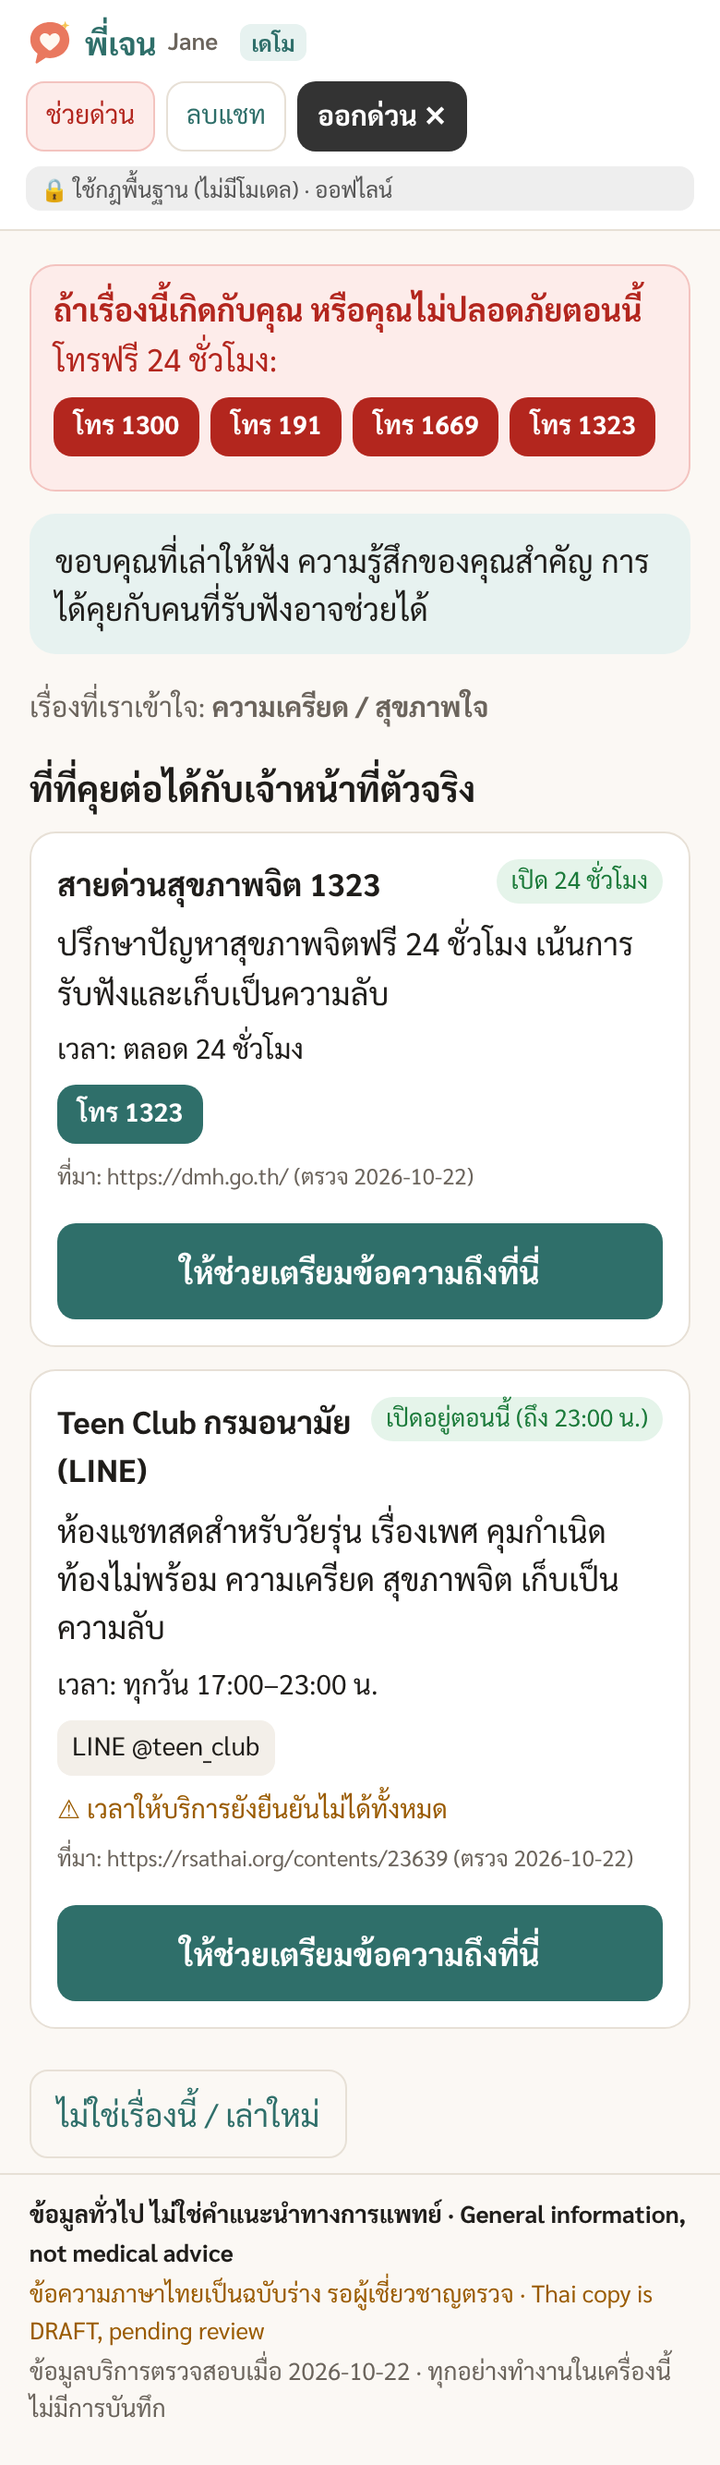
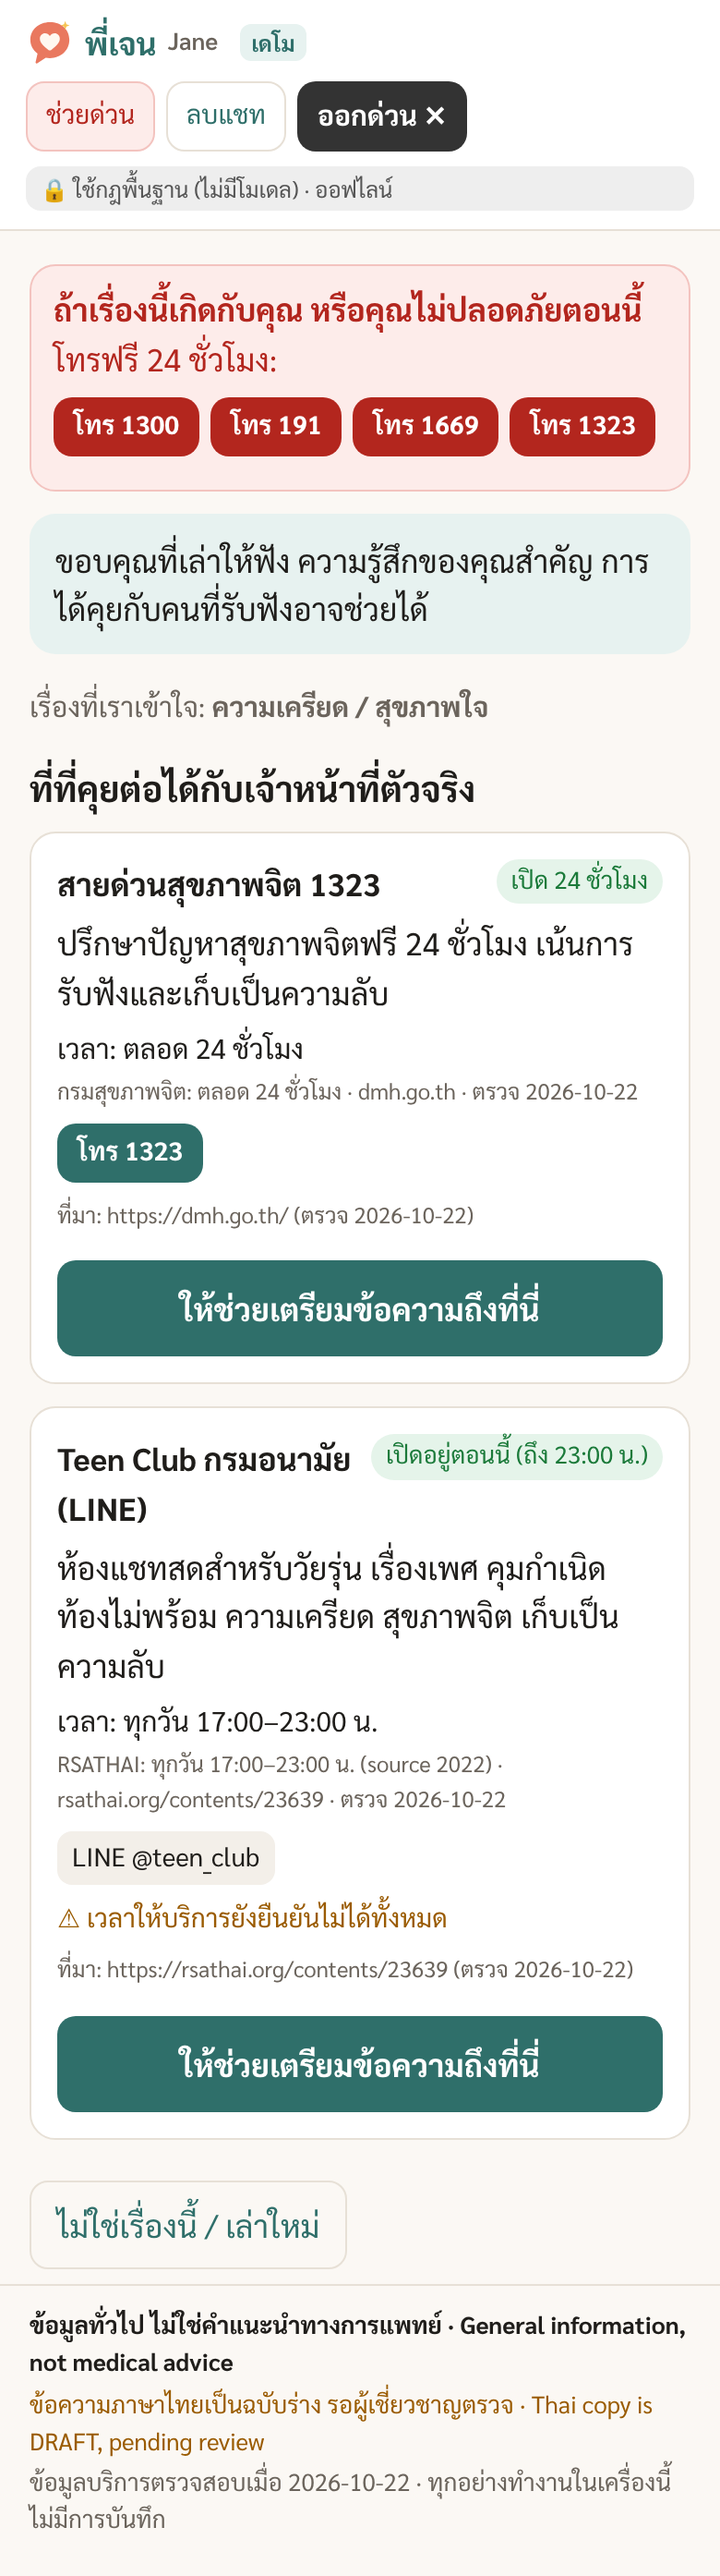
Hours with sources per service: narrower window for open-now when sources disagree (1663 → 10–20), all sources cited on the card, Teen Club 'source 2022'; eval harness for WebGPU + serve --dist

Changed region(s): [[0.0308, 0.0, 0.9538, 0.9955]]

diff --git a/tests/unit/hours-sources.test.ts b/tests/unit/hours-sources.test.ts
@@ -1,0 +1,66 @@
+import { describe, it, expect } from "vitest";
+import { narrowestHours, hoursCitation, openStatus } from "../../src/core/openNow";
+import { SERVICES } from "../../src/core/referral";
+import type { Hours } from "../../src/core/types";
+
+const d = (open: string, close: string): Hours => ({ type: "daily", open, close });
+const svc = (id: string) => SERVICES.find((s) => s.id === id)!;
+const bkk = (hhmm: string) => new Date(`2026-10-22T${hhmm}:00+07:00`);
+
+describe("narrowest window when sources disagree", () => {
+  it("intersects same-day windows (latest open, earliest close)", () => {
+    expect(narrowestHours([d("09:00", "21:00"), d("10:00", "20:00")])).toEqual(d("10:00", "20:00"));
+    expect(narrowestHours([d("09:00", "20:00"), d("10:00", "21:00")])).toEqual(d("10:00", "20:00"));
+    expect(narrowestHours([d("08:00", "22:00"), d("09:30", "21:00"), d("10:00", "21:30")])).toEqual(d("10:00", "21:00"));
+  });
+  it("order of sources does not matter", () => {
+    expect(narrowestHours([d("10:00", "20:00"), d("09:00", "21:00")])).toEqual(narrowestHours([d("09:00", "21:00"), d("10:00", "20:00")]));
+  });
+  it("24h only wins when every source says 24h", () => {
+    expect(narrowestHours([{ type: "24h" }, { type: "24h" }])).toEqual({ type: "24h" });
+    expect(narrowestHours([{ type: "24h" }, d("08:00", "16:00")])).toEqual(d("08:00", "16:00"));
+  });
+  it("'varies' adds no window; all-varies stays varies", () => {
+    expect(narrowestHours([{ type: "varies" }])).toEqual({ type: "varies" });
+    expect(narrowestHours([{ type: "varies" }, d("08:00", "16:00")])).toEqual(d("08:00", "16:00"));
+  });
+  it("disjoint or midnight-crossing windows fall back to the shortest single window (never wider)", () => {
+    expect(narrowestHours([d("08:00", "10:00"), d("12:00", "18:00")])).toEqual(d("08:00", "10:00"));
+    expect(narrowestHours([d("20:00", "02:00"), d("18:00", "23:00")])).toEqual(d("18:00", "23:00"));
+  });
+  it("1663 open-now uses 10:00–20:00 (GCC) not 09:00–21:00 (RSATHAI)", () => {
+    expect(svc("hotline_1663").hours).toEqual(d("10:00", "20:00"));
+    expect(openStatus(svc("hotline_1663").hours, bkk("09:30")).state).toBe("closed");
+    expect(openStatus(svc("hotline_1663").hours, bkk("20:30")).state).toBe("closed");
+    expect(openStatus(svc("hotline_1663").hours, bkk("15:00")).state).toBe("open");
+  });
+});
+
+describe("hours citations on the card", () => {
+  it("1663 cites both sources and flags the conflict", () => {
+    const c = hoursCitation(svc("hotline_1663"));
+    expect(c.conflict).toBe(true);
+    expect(c.effective_th).toBe("ทุกวัน 10:00–20:00 น.");
+    expect(c.conflict_note_th).toContain("ช่วงเวลาที่แคบกว่า");
+    expect(c.lines).toHaveLength(2);
+    expect(c.lines[0]).toBe("RSATHAI: ทุกวัน 09:00–21:00 น. · rsathai.org/qrcode · ตรวจ 2026-10-22");
+    expect(c.lines[1]).toMatch(/^GCC Call Center ภาครัฐ: ทุกวัน 10:00–20:00 น\. \(source 2025\) · gcontact\.gcc\.go\.th\/index\.php · ตรวจ 2026-10-22$/);
+  });
+  it("Teen Club 17–23 is labelled 'source 2022'", () => {
+    const c = hoursCitation(svc("teen_club"));
+    expect(c.conflict).toBe(false);
+    expect(c.conflict_note_th).toBeNull();
+    expect(c.lines).toEqual(["RSATHAI: ทุกวัน 17:00–23:00 น. (source 2022) · rsathai.org/contents/23639 · ตรวจ 2026-10-22"]);
+  });
+  it("agreeing sources are not a conflict (1300: both 24h)", () => {
+    const c = hoursCitation(svc("hotline_1300"));
+    expect(c.conflict).toBe(false);
+    expect(c.lines).toHaveLength(2);
+  });
+  it("every service has at least one hours source with url and check date", () => {
+    for (const s of SERVICES) {
+      expect(s.hours_sources.length, s.id).toBeGreaterThan(0);
+      for (const x of s.hours_sources) { expect(x.url).toMatch(/^https:\/\//); expect(x.checked).toMatch(/^\d{4}-\d{2}-\d{2}$/); expect(x.by.length).toBeGreaterThan(1); }
+    }
+  });
+});

diff --git a/src/core/openNow.ts b/src/core/openNow.ts
@@ -50,3 +50,56 @@ export function hoursLabel(hours: Hours): string {
   if (hours.type === "varies") return "แตกต่างกันแต่ละแห่ง";
   return `ทุกวัน ${hours.open}–${hours.close} น.`;
 }
+
+const minutesOpen = (h: { open: string; close: string }) => {
+  const o = toMin(h.open), c = toMin(h.close);
+  return o === c ? 1440 : (c - o + 1440) % 1440;
+};
+
+/**
+ * Where sources disagree, use the NARROWER window (Keng, 22 Oct 2026): never claim "open" when any source says closed.
+ * - "24h" is the widest; it only wins if every source says 24h.
+ * - "varies" sources carry no window; if all sources vary, the result varies.
+ * - Same-day windows are intersected (latest open, earliest close). If a window crosses midnight or the
+ *   intersection is empty, the shortest single window is used instead (still conservative, never wider).
+ */
+export function narrowestHours(list: Hours[]): Hours {
+  const daily = list.filter((h): h is { type: "daily"; open: string; close: string } => h.type === "daily");
+  if (!daily.length) return list.some((h) => h.type === "24h") ? { type: "24h" } : { type: "varies" };
+  if (daily.length === 1) return daily[0];
+  const sameDay = daily.every((h) => toMin(h.open) < toMin(h.close));
+  if (sameDay) {
+    const o = Math.max(...daily.map((h) => toMin(h.open))), c = Math.min(...daily.map((h) => toMin(h.close)));
+    if (o < c) {
+      const hh = (m: number) => `${String(Math.floor(m / 60)).padStart(2, "0")}:${String(m % 60).padStart(2, "0")}`;
+      return { type: "daily", open: hh(o), close: hh(c) };
+    }
+  }
+  return [...daily].sort((a, b) => minutesOpen(a) - minutesOpen(b))[0];
+}
+
+const sameHours = (a: Hours, b: Hours) => hoursLabel(a) === hoursLabel(b);
+
+export interface HoursCitation {
+  /** e.g. "ทุกวัน 10:00–20:00 น." */
+  effective_th: string;
+  /** Sources disagree, so the narrower window is in use. */
+  conflict: boolean;
+  /** Shown under the card when there is a conflict. */
+  conflict_note_th: string | null;
+  /** One line per source: "RSATHAI: ทุกวัน 09:00–21:00 น. (source 2022) · rsathai.org/qrcode · ตรวจ 2026-10-22" */
+  lines: string[];
+}
+
+export function hoursCitation(s: { hours_sources: { hours: Hours; by: string; url: string; as_of?: string; checked: string }[] }): HoursCitation {
+  const eff = narrowestHours(s.hours_sources.map((x) => x.hours));
+  const conflict = s.hours_sources.some((x) => !sameHours(x.hours, s.hours_sources[0].hours));
+  const host = (u: string) => u.replace(/^https?:\/\/(www\.)?/, "").replace(/[?#].*$/, "").replace(/\/$/, "");
+  return {
+    effective_th: hoursLabel(eff),
+    conflict,
+    conflict_note_th: conflict ? "แหล่งข้อมูลระบุเวลาไม่ตรงกัน จึงใช้ช่วงเวลาที่แคบกว่าในการบอกว่าเปิดอยู่หรือไม่" : null,
+    lines: s.hours_sources.map((x) =>
+      `${x.by}: ${hoursLabel(x.hours)}${x.as_of ? ` (source ${x.as_of})` : ""} · ${host(x.url)} · ตรวจ ${x.checked}`),
+  };
+}

diff --git a/src/eval/eval-main.ts b/src/eval/eval-main.ts
@@ -1,23 +1,52 @@
-// Dev-only: exposes the WASM adapter to the Playwright eval script. Synthetic eval text only; nothing is logged or stored.
+// Dev/test-only eval harness (not in the app build). Synthetic eval text only; nothing is logged or stored.
+//   eval.html?runtime=wasm|webgpu&model=qwen3-1.7b|qwen3-4b
 import { loadWllama } from "../llm/wllama-adapter";
+import { loadWebLLM } from "../llm/webllm-adapter";
 import { MODELS } from "../llm/models";
 import { parseIntent } from "../llm/prompts";
 import { classifyNeed } from "../core/intent";
 import { classifyWithFallback } from "../llm/adapter";
 
+const q = new URLSearchParams(location.search);
+const runtime = q.get("runtime") ?? "wasm";
+const spec = MODELS[(q.get("model") ?? "qwen3-1.7b") as keyof typeof MODELS];
+
+async function gpuInfo() {
+  const gpu = (navigator as any).gpu;
+  if (!gpu) return null;
+  const a = await gpu.requestAdapter({ powerPreference: "high-performance" });
+  return a ? { vendor: a.info?.vendor, architecture: a.info?.architecture, f16: a.features.has("shader-f16"), fallback: !!(a.isFallbackAdapter || a.info?.isFallbackAdapter) } : null;
+}
+
 (window as any).evalReady = (async () => {
-  const spec = MODELS["qwen3-1.7b"];
+  const gpu = await gpuInfo();
   const t0 = performance.now();
-  const a = await loadWllama(spec.wasm!.file, spec.label, () => {});
+  let a: any;
+  if (runtime === "webgpu") {
+    const v = gpu?.f16 ? "webgpu_f16" : "webgpu_f32";
+    a = await loadWebLLM(spec[v], spec.label, () => {});
+    a.variant = v;
+  } else {
+    a = await loadWllama(spec.wasm!.file, spec.label, () => {});
+    a.variant = "wasm";
+  }
   const loadMs = performance.now() - t0;
   (window as any).evalOne = async (text: string) => {
     const s = performance.now();
-    let raw = "", err = "";
-    try { raw = await a.classifyRaw(text); } catch (e) { err = String(e); }
+    let raw = "", err = "", usage: any = null;
+    try {
+      const r = await a.classifyRaw(text);
+      if (typeof r === "string") raw = r; else { raw = r.content; usage = r.usage; }
+    } catch (e) { err = String(e); }
     const modelMs = performance.now() - s;
-    const s2 = performance.now();
     const combined = await classifyWithFallback(text, a, 60_000);
-    return { raw, err, model: parseIntent(raw), modelMs, rules: classifyNeed(text), combined, combinedMs: performance.now() - s2 };
+    return { raw, err, usage, model: parseIntent(raw), modelMs, rules: classifyNeed(text), combined };
   };
-  return { loadMs, threads: navigator.hardwareConcurrency };
+  (window as any).evalPolish = async (line: string) => {
+    if (!a.polishRaw) return null;
+    const s = performance.now();
+    const r = await a.polishRaw(line);
+    return { ms: performance.now() - s, usage: r.usage, chars: r.content.length };
+  };
+  return { loadMs, threads: navigator.hardwareConcurrency, gpu, runtime, variant: a.variant, model: spec.label, ua: navigator.userAgent };
 })();

diff --git a/src/main.ts b/src/main.ts
@@ -4,7 +4,7 @@ import markSvg from "./assets/mark.svg?raw";
 import type { AgeBand, CrisisCategory, Intent, IntentResult } from "./core/types";
 import { detectCrisis, crisisOrder } from "./core/crisis";
 import { suggestServices, CRISIS_LINES, DATA_VERSION, INTENT_LABEL_TH, SUPPORT_LINE_TH, type Suggestion } from "./core/referral";
-import { hoursLabel } from "./core/openNow";
+import { hoursLabel, hoursCitation } from "./core/openNow";
 import { draftSummary, finalizeSummary } from "./core/summary";
 import { classifyWithFallback, polishWithFallback, type LLMAdapter } from "./llm/adapter";
 import { startModel, type ModelStatus } from "./llm/runtime";
@@ -204,6 +204,16 @@ function sourceLine(src: { url: string; checked: string }[]) {
   return h("p", { class: "src" }, "ที่มา: ", ...src.slice(0, 1).map((x) => h("span", { class: "url" }, `${x.url} (ตรวจ ${x.checked})`)));
 }
 
+/** Hours with their sources; on conflict the narrower window is used and every source is cited. */
+function hoursBlock(svc: Suggestion["service"]) {
+  const c = hoursCitation(svc);
+  return h("div", { class: "hours", "data-testid": `hours-${svc.id}`, "data-conflict": String(c.conflict) },
+    h("p", { class: "hours-eff" }, `เวลา: ${c.effective_th}`),
+    c.conflict_note_th && h("p", { class: "note" }, c.conflict_note_th),
+    h("ul", { class: "hours-src" }, ...c.lines.map((l) => h("li", {}, l))),
+  );
+}
+
 function channelEl(ch: { type: string; label_th: string; href?: string }) {
   return ch.href
     ? h("a", { class: "btn-call small", href: ch.href }, ch.label_th)
@@ -230,7 +240,7 @@ function suggestScreen() {
       h("section", { class: "card", "data-testid": `service-${s.service.id}`, "data-rank": i },
         h("div", { class: "card-head" }, h("h3", {}, s.service.name_th), statusBadge(s)),
         h("p", {}, s.service.description_th),
-        h("p", { class: "hours" }, `เวลา: ${hoursLabel(s.service.hours)}`),
+        hoursBlock(s.service),
         h("div", { class: "chans" }, ...s.service.channels.map(channelEl)),
         s.service.verification !== "verified" && h("p", { class: "warn" }, "⚠ เวลาให้บริการยังยืนยันไม่ได้ทั้งหมด"),
         sourceLine(s.service.sources),

diff --git a/src/llm/webllm-adapter.ts b/src/llm/webllm-adapter.ts
@@ -7,7 +7,7 @@ import { CLASSIFY_SYSTEM, POLISH_SYSTEM, cleanPolished, parseIntent } from "./pr
 import { needLine, replaceNeedLine } from "./summary-lines";
 
 /** WebLLM on WebGPU, in a Web Worker. Weights and the WebGPU library come from our own origin only. */
-export async function loadWebLLM(build: WebGpuBuild, label: string, onProgress: (p: number) => void): Promise<LLMAdapter> {
+export async function loadWebLLM(build: WebGpuBuild, label: string, onProgress: (p: number) => void): Promise<LLMAdapter & { classifyRaw(t: string): Promise<{ content: string; usage: any }>; polishRaw(t: string): Promise<{ content: string; usage: any }> }> {
   const appConfig: AppConfig = {
     cacheBackend: "cache" as any, // Cache Storage, model files only
     model_list: [{
@@ -20,15 +20,21 @@ export async function loadWebLLM(build: WebGpuBuild, label: string, onProgress: 
     appConfig, initProgressCallback: (r) => onProgress(r.progress ?? 0),
   });
   onProgress(1);
-  const ask = async (system: string, user: string, max: number) => {
-    const r = await engine.chat.completions.create({
+  const askRaw = async (system: string, user: string, max: number) => {
+    const r: any = await engine.chat.completions.create({
       messages: [{ role: "system", content: system }, { role: "user", content: user }],
       max_tokens: max, temperature: 0, extra_body: { enable_thinking: false },
     } as any);
-    return (r as any).choices?.[0]?.message?.content ?? "";
+    return { content: String(r.choices?.[0]?.message?.content ?? ""), usage: r.usage ?? null };
   };
+  const ask = async (system: string, user: string, max: number) => (await askRaw(system, user, max)).content;
+  // Warm-up on a fixed synthetic string (never user text): first call compiles shaders.
+  await ask(CLASSIFY_SYSTEM, "สวัสดี", 8).catch(() => "");
   return {
     name: `${label} (WebGPU)`,
+    /** Eval only: raw output + WebLLM usage stats (prefill/decode tokens per second). */
+    classifyRaw: async (text: string) => askRaw(CLASSIFY_SYSTEM, text, 20),
+    polishRaw: async (line: string) => askRaw(POLISH_SYSTEM, line, 60),
     ready: () => true,
     classify: async (text) => parseIntent(await ask(CLASSIFY_SYSTEM, text, 20)) as Intent[] | null,
     polishSummary: async (draft) => {

diff --git a/tests/e2e/flow.spec.ts b/tests/e2e/flow.spec.ts
@@ -18,6 +18,14 @@ test("S1 pregnancy worry at 19:00 BKK → 1663 (open) → edit → approve → D
   await expect(page.getByTestId("status-hotline_1663")).toHaveAttribute("data-state", "open");
   await expect(page.getByTestId("status-teen_club")).toHaveAttribute("data-state", "open");
   await expect(page.locator('a[href="tel:1663"]').first()).toBeVisible();
+  // Hours with sources: 1663 sources disagree → narrower window, both cited; Teen Club labelled "source 2022".
+  const h1663 = page.getByTestId("hours-hotline_1663");
+  await expect(h1663).toHaveAttribute("data-conflict", "true");
+  await expect(h1663).toContainText("เวลา: ทุกวัน 10:00–20:00 น.");
+  await expect(h1663).toContainText("RSATHAI: ทุกวัน 09:00–21:00 น.");
+  await expect(h1663).toContainText("GCC Call Center ภาครัฐ: ทุกวัน 10:00–20:00 น.");
+  await expect(h1663).toContainText("ช่วงเวลาที่แคบกว่า");
+  await expect(page.getByTestId("hours-teen_club")).toContainText("17:00–23:00 น. (source 2022)");
   await shot(page, "s1-03-suggestions");
 
   await page.getByTestId("pick-hotline_1663").click();
@@ -56,9 +64,9 @@ test("S2 condom broke at 08:30 BKK, with name + phone typed → PII stripped, op
   await page.getByTestId("need-submit").click();
 
   await expect(page.getByTestId("intent-label")).toHaveAttribute("data-intent", "emergency_contraception");
-  // 08:30: 1663 (09:00) and Teen Club (17:00) closed; closed services show when they open.
+  // 08:30: 1663 (10:00, narrower of the two cited windows) and Teen Club (17:00) closed; closed services show when they open.
   await expect(page.getByTestId("status-hotline_1663")).toHaveAttribute("data-state", "closed");
-  await expect(page.getByTestId("status-hotline_1663")).toContainText("09:00");
+  await expect(page.getByTestId("status-hotline_1663")).toContainText("10:00");
   await shot(page, "s2-02-suggestions-0830");
 
   await page.getByTestId("pick-hotline_1663").click();

diff --git a/tests/unit/openNow.test.ts b/tests/unit/openNow.test.ts
@@ -14,7 +14,8 @@ describe("open now (Asia/Bangkok)", () => {
   });
 
   const table: [string, string, "open" | "closed"][] = [
-    ["hotline_1663", "08:59", "closed"], ["hotline_1663", "09:00", "open"], ["hotline_1663", "20:59", "open"], ["hotline_1663", "21:00", "closed"],
+    // 1663: RSATHAI 09–21 vs GCC 10–20 → narrower 10–20
+    ["hotline_1663", "09:30", "closed"], ["hotline_1663", "09:59", "closed"], ["hotline_1663", "10:00", "open"], ["hotline_1663", "19:59", "open"], ["hotline_1663", "20:00", "closed"], ["hotline_1663", "20:30", "closed"],
     ["tamtang", "09:59", "closed"], ["tamtang", "10:00", "open"], ["tamtang", "21:59", "open"], ["tamtang", "22:00", "closed"],
     ["teen_club", "16:59", "closed"], ["teen_club", "17:00", "open"], ["teen_club", "22:59", "open"], ["teen_club", "23:00", "closed"],
     ["teen_club", "00:30", "closed"], ["hotline_1323", "03:00", "open"], ["rsa_online", "04:00", "open"],
@@ -25,7 +26,7 @@ describe("open now (Asia/Bangkok)", () => {
 
   it("labels say when it opens", () => {
     expect(openStatus(svc("teen_club").hours, bkk("12:00")).label_th).toContain("17:00");
-    expect(openStatus(svc("hotline_1663").hours, bkk("12:00")).label_th).toContain("21:00");
+    expect(openStatus(svc("hotline_1663").hours, bkk("12:00")).label_th).toContain("20:00");
   });
 
   it("varies → unknown", () => {

diff --git a/src/core/types.ts b/src/core/types.ts
@@ -13,6 +13,16 @@ export type Hours =
   | { type: "varies" }
   | { type: "daily"; open: string; close: string };
 
+export interface HoursSource {
+  hours: Hours;
+  /** Short publisher label shown on the card, e.g. "RSATHAI". */
+  by: string;
+  url: string;
+  /** Year (or date) the source's information dates from, when known; shown as "source 2022". */
+  as_of?: string;
+  checked: string;
+}
+
 export interface Source { url: string; title: string; checked: string; note?: string }
 export interface Channel { type: string; label_th: string; value: string; href?: string }
 
@@ -22,6 +32,9 @@ export interface Service {
   name_en: string;
   description_th: string;
   channels: Channel[];
+  /** What each source says about the hours. */
+  hours_sources: HoursSource[];
+  /** Effective hours used for open-now: the narrowest window across hours_sources (derived at load). */
   hours: Hours;
   intents: Intent[];
   youth_friendly: boolean;

diff --git a/src/styles.css b/src/styles.css
@@ -52,7 +52,9 @@ textarea { width: 100%; font: inherit; padding: 12px; border-radius: var(--radiu
 .badge.open { background: #e5f4ea; color: var(--open); }
 .badge.closed { background: #fbeee6; color: var(--closed); }
 .badge.unknown { background: #eee; color: #555; }
-.hours { font-size: 15px; }
+.hours { font-size: 15px; margin: 6px 0; }
+.hours p { margin: 0; }
+.hours-src { list-style: none; padding: 0; margin: 2px 0 0; font-size: 12px; color: var(--muted); word-break: break-word; }
 .chans { display: flex; flex-wrap: wrap; gap: 6px; margin: 8px 0; }
 .chan { font-size: 14px; padding: 4px 8px; border-radius: 8px; background: #f3efe9; }
 .btn-call { display: inline-block; background: var(--brand); color: #fff; text-decoration: none; padding: 10px 14px; font-weight: 700; }

diff --git a/src/core/referral.ts b/src/core/referral.ts
@@ -1,9 +1,12 @@
 import type { Intent, Service, CrisisLine } from "./types";
-import { openStatus, type OpenStatus } from "./openNow";
+import { openStatus, narrowestHours, type OpenStatus } from "./openNow";
 import { MAX_SUGGESTIONS } from "../config";
 import data from "../data/services.json";
 
-export const SERVICES = data.services as unknown as Service[];
+/** Effective hours = narrowest window across the cited sources (see narrowestHours). */
+export const SERVICES: Service[] = (data.services as unknown as Omit<Service, "hours">[]).map((s) => ({
+  ...s, hours: narrowestHours(s.hours_sources.map((x) => x.hours)),
+}));
 export const CRISIS_LINES = data.crisis_lines as unknown as CrisisLine[];
 export const DATA_VERSION = data.data_version;
 

diff --git a/tests/unit/intent.test.ts b/tests/unit/intent.test.ts
@@ -65,7 +65,7 @@ describe("suggestServices", () => {
     const s = suggestServices(["emergency_contraception", "pregnancy"], at("08:30"));
     expect(s[0].service.id).toBe("hotline_1663");
     expect(s[0].status.state).toBe("closed");
-    expect(s[0].status.label_th).toContain("09:00");
+    expect(s[0].status.label_th).toContain("10:00"); // narrower window (GCC 10–20 vs RSATHAI 09–21)
   });
   it("mental health → 1323 (24h) first", () => {
     expect(suggestServices(["mental_health"], at("03:00"))[0].service.id).toBe("hotline_1323");

diff --git a/vite.eval.config.ts b/vite.eval.config.ts
@@ -1,0 +1,6 @@
+// Test-only build of eval.html (rules + model harness) for running the eval on another machine. Never shipped in the run bundle.
+import { defineConfig, mergeConfig } from "vite";
+import base from "./vite.config";
+export default mergeConfig(base as any, defineConfig({
+  build: { outDir: "dist-eval", emptyOutDir: true, rollupOptions: { input: { eval: "eval.html" } } },
+}));
